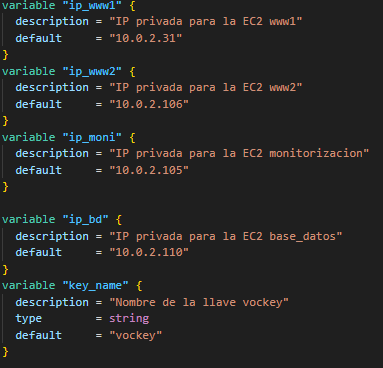
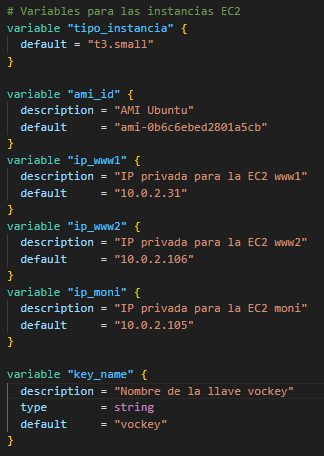
Mejorado terraform

diff --git a/nube/Terraform/Documentación/terraform.md b/nube/Terraform/Documentación/terraform.md
@@ -27,31 +27,51 @@ La tabla de rutas privada permite que todo el tráfico que deba enviarse a inter
 
 ![main_ig_tr](./imagenes/main_ig_tr.png)  
 ### Grupos de seguridad
-Otro bloque importante es el que se encarga de crear los grupos de seguridad que en este caso serán tres (uno para el proxy, otro para las instancias privadas ww1 y www2, la instancia monitorización y la instancia para la base de datos). El grupo de seguridad del proxy permitirá la entrada por el puerto 80(HTTP) y el puerto 443(HTTPS) para permitir la entrada de las peticiones a la página web, permitirá la entrada por el puerto 22 (SSH) para permitir la gestión del proxy y permitirá también la entrada desde cualquier instancia de la subred privada para que pueda cumplir la función de instancia nat, además permitirá la salida de todo tipo de protocolos para que el proxy puedo consultar internet o las máquinas internas.
+Otro bloque importante es el que se encarga de crear los grupos de seguridad que en este caso serán tres (uno para el proxy, otro para las instancias privadas ww1 y www2 y un último para la instancia moni). El grupo de seguridad del proxy permitirá la entrada por el puerto 80(HTTP) y el puerto 443(HTTPS) para permitir la entrada de las peticiones a la página web, permitirá la entrada por el puerto 22 (SSH) para permitir la gestión del proxy y permitirá también la entrada desde cualquier instancia de la subred privada para que pueda cumplir la función de instancia nat, además permitirá la salida de todo tipo de protocolos para que el proxy puedo consultar internet o las máquinas internas.   
+
 ![main_sg_proxy](./imagenes/main_sg_proxy.png)
-El grupo de seguridad de las instancias privadas www1 y www2 permitirá el tráfico de entrada de HTTP (80) y HTTPS (443) desde el proxy para recibir las peticiones, el tráfico ssh desde el proxy para permitir la gestión de mantenimiento de las instancias y el tráfico ssh desde la instancia de monitorización. Además, este grupo de seguridad permitirá la salida de todo tipo de protocolos.
+ 
+El grupo de seguridad de las instancias privadas www1 y www2 permitirá el tráfico de entrada de HTTP (80) y HTTPS (443) desde el proxy para recibir las peticiones y el tráfico ssh desde el proxy para permitir la gestión de mantenimiento de las instancias. Además, este grupo de seguridad permitirá la salida de todo tipo de protocolos. 
+
 ![main_sg_www1_www2](./imagenes/main_sg_www1_www2.png)
-El grupo de seguridad para la instancia de monitorización permitirá el ssh desde el proxy para poderla modificar o actualizar, también permitirá la entrada de todas las métricas necesarias para que cumpla su función, además permitirá la salida de todos los protocolos. En este caso una de las reglas ingress esta separada del resto debido a que si no habría problemas de dependencia con la base de datos.
-![main_sg_monitorizacion](./imagenes/main_sg_moni.png)
-El grupo de seguridad para la instancia de la base de datos permitirá el ssh desde el proxy para poderla modificar o actualizar, también permitirá la entrada de todas las métricas necesarias para poder conectarse con www1 y www2 y el equipo de monitorización, además permitirá la salida de todos los protocolos. En este caso una de las reglas ingress está separada del resto debido a que si no habría problemas de dependencia con la instancia encargada de la monitorización.
-![main_sg_db](./imagenes/main_sg_base_datos.png)
+
+El grupo de seguridad para la instancia de monitorización que además contendrá la base de datos permitirá el ssh desde el proxy para poderla modificar o actualizar, también permitirá la entrada de todas las métricas necesarias desde las instancias web y permitirá la salida de todos los protocolos. 
+
+![main_sg_moni](./imagenes/main_sg_moni.png)
 ### Instancias
-El último bloque está relacionado con la creación de las instancias. Dentro del último bloque podemos ver dos partes las cuales son la primera en la que se crea la instancia proxy con una serie de características como el ami, la subred a la que pertenece o el grupo de Seguridad que le han sido proporcionados mediante variables, además se le ha asignado una IP elástica para que su ip cambie con el tiempo. Para poderme conectar a ella por SSH he utilizado un parámetro con una variable cuyo valor es el nombre de la clave key.
-Para que esta máquina pueda funcionar además de instancia nat le he añadido el parámetro source_dest_check = false para permitir que el proxy deje pasar el tráfico desde las instancias de la subred privada. 
+El último bloque está relacionado con la creación de las instancias. Dentro del último bloque podemos ver dos partes las cuales son la primera en la que se crea la instancia proxy con una serie de características como el ami, la subred a la que pertenece o el grupo de Seguridad que le han sido proporcionados mediante variables, además se le ha asignado una IP elástica para que su ip cambie con el tiempo. Para poderme conectar a ella por SSH he utilizado un parámetro con una variable cuyo valor es el nombre de la clave key. 
+
+Para que esta máquina pueda funcionar además de instancia nat le he añadido el parámetro source_dest_check = false para permitir que el proxy deje pasar el tráfico desde las instancias de la subred privada. Además, le he añadido un bloque que de código en el parámetro user_data con una serie de comandos que hacen que al recibir el proxy paquetes que no son para él desde las instancias privadas los reenvíe con una máscara para que parezca que los paquetes los envía el proxy y no dejar expuestos las instancias privadas. en ese bloque de código también se utilizan una serie de comandos que permiten que la configuración persista para que al reiniciar no se borre. 
+
 ![main_ec2_proxy](./imagenes/main_ec2_proxy.png)
-En la segunda parte del último bloque se puede ver cómo se han creado las instancias privadas(ww1, ww2, monitorización y Base_Datos) a las que los parámetros de la ami, el tipo de instancia, el grupo de seguridad asignado o la subred a la que pertenecen se les ha asignado mediante variables. Para conseguir que las IPs que tienen sean estáticas y no varíen se les ha asignado el siguiente parámetro private_ip    = var.ip_nombre.
- ![main_ec2_privadas](./imagenes/main_ec2_privadas.png)
-## Variables.tf
-En este archivo se han definido todas las variables utilizadas a lo largo del archivo main.
-Algunas de las variables han sido la variable región donde se indica la región en la que se encuentra la infraestructura que en este caso será la us-east-1 o la variable az que indica en que zona de disponibilidad se encuentra la infraestructura Que en este caso será us-east-1ª.
+
+En la segunda parte del último bloque se puede ver cómo se han creado las instancias privadas a las que los parámetros de la ami, el tipo de instancia, el grupo de seguridad asignado o la subred a la que pertenecen se les ha asignado mediante variables. Para conseguir que las IPs que tienen sean estáticas y no varíen se les ha asignado el siguiente parámetro private_ip    = var.ip_www1. 
+
+![main_ec2_privadas](./imagenes/main_ec2_privadas.png)
+
+## Variables.tf 
+
+En este archivo se han definido todas las variables utilizadas a lo largo del archivo main. 
+
+Algunas de las variables han sido la variable región donde se indica la región en la que se encuentra la infraestructura que en este caso será la us-east-1 o la variable az que indica en que zona de disponibilidad se encuentra la infraestructura que en este caso será us-east-1ª. 
+
 ![variables_region_az](./imagenes/variables_region_az.png)
-Se han utilizado una serie de variables para asignar los bloques CIDR a la VPC y a las subredes los cuales son vpc_cidr para asignar el bloque CIDR a la VPC(10.0.0.0/16), publica_cidr para asignar el bloque CIDR a la subred pública (10.0.1.0/24) y privada_cidr para asignar el bloque CIDR a la subred privada (10.0.2.0.0/24). 
+
+Se han utilizado una serie de variables para asignar los bloques CIDR a la VPC y a las subredes los cuales son vpc_cidr para asignar el bloque CIDR a la VPC(10.0.0.0/16), publica_cidr para asignar el bloque CIDR a la subred pública (10.0.1.0/24) y privada_cidr para asignar el bloque CIDR a la subred privada (10.0.2.0.0/24).  
+
 ![variables_cidr](./imagenes/variables_cidr.png)
-Otras variables utilizadas están relacionadas con la creación de las instancias. Entre estas destacan la variable tipo_instancia que indica qué tipo de instancia se va a crear (t3.small), la variable ami_id que indica la ami para Ubuntu(ami-0b6c6ebed2801a5cb) ya que todas las máquinas utilizadas eran Ubuntu, las variables ip_www1, ip_www2 y ip_moni que indican la ip fija que tendrán las tres instancias privadas (www1-10.0.2.31, www2-10.0.2.106, monitorizacion-10.0.2.105 y Base_Datos-10.0.2.110) y la variable key name donde se indica el nombre de la clave vokey que es esencial para hacer ssh.
+
+Otras variables utilizadas están relacionadas con la creación de las instancias. Entre estas destacan la variable tipo_instancia que indica qué tipo de instancia se va a crear (t3.small), la variable ami_id que indica la ami para Ubuntu(ami-0b6c6ebed2801a5cb) ya que todas las máquinas utilizadas eran Ubuntu, las variables ip_www1, ip_www2 y ip_moni que indican la ip fija que tendrán las tres instancias privadas (www1-10.0.2.31, www2-10.0.2.106 y moni-10.0.2.105) y la variable key name donde se indica el nombre de la clave vokey que es esencial para hacer ssh. 
+
 ![variables_instancias](./imagenes/variables_instancias.png)
-## Outputs.tf
-En este archivo se indica que se deberá sacar por pantalla al terminar el terraform apply las IP de las instancias. Concretamente se proporcionará la IP pública y privada del proxy y la IP privadas de www1, www2, monitorización y Base_Datos.
+
+Outputs.tf 
+
+En este archivo se indica que se deberá sacar por pantalla al terminar el terraform apply las IP de las instancias. Concretamente se proporcionará la IP pública y privada del proxy y la IP privadas de www1, www2 y moni. 
+
 ![outputs](./imagenes/outputs.png)
+
+
  
 
  
